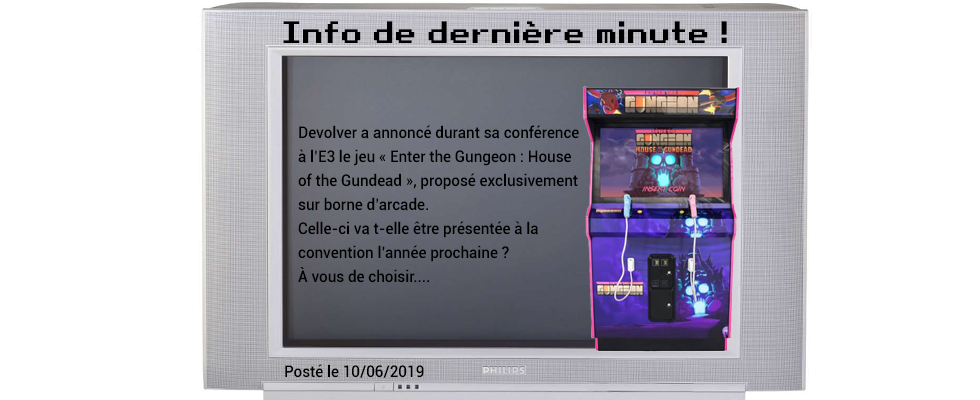
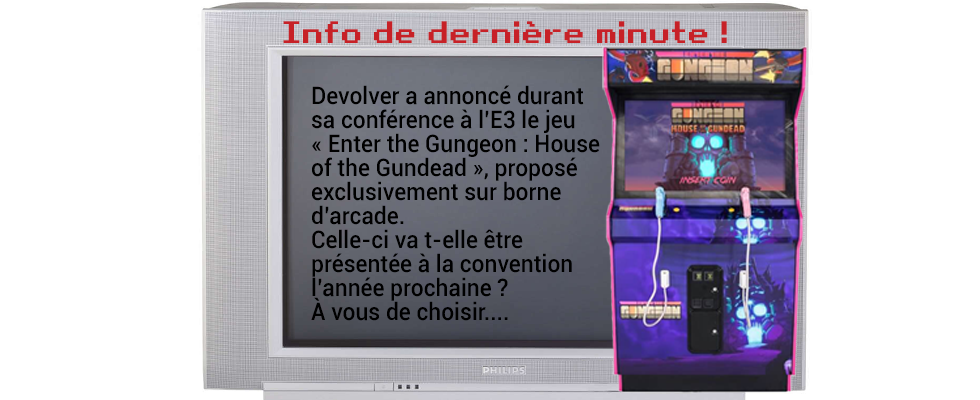
Modif images du carrousel de l'accueil.

Changed region(s): [[0.2755, 0.03, 0.8265, 0.99], [0.2755, 0.9, 0.4286, 0.96]]

diff --git a/css/style.css b/css/style.css
@@ -14,7 +14,35 @@ body{
     background-color:white;
 }
 
-/* Footer*/
+/* Début bannière */
+
+.banniere{
+    background-color:#3D3838;
+    margin-right:0px!important;
+    margin-right:0px!important;
+    padding-top:25px;
+}
+.imgbanniere{
+    max-width:100%; 
+    max-height:100%; 
+    margin-left:auto; 
+    margin-right:auto;
+    visibility:hidden;
+}
+
+#imagebanniere{
+    background-image:url('../images/banniere1.png');
+    margin-left:auto;
+    margin-right:auto;
+    background-size:cover;
+}
+#imagebanniere:hover{
+    background-image:url('../images/banniere.gif');
+}
+
+/* Fin bannière */
+
+/* Début footer*/
 .footer {
     background-color:#3D3838;
     color:white;
@@ -50,7 +78,9 @@ body{
 }
 
 
-/* Page programme */ 
+/* Fin footer */
+
+/* Début page programme */ 
 .jour{
     color: white;
 }
@@ -166,7 +196,6 @@ body{
     background-size: cover;
 }
 
-/*image page programe*/
 .nintendosalon{
     background-image: url(../images/consoles-salon-nintendo.jpg);
 }
@@ -247,37 +276,15 @@ body{
     background-image: url(../images/cloture.jpg);
 }
 
-/*fin image page programme*/
-
 .journee{
     margin-left:auto;
     margin-right:auto;
     font-family: "RetroGaming";
     font-size: 30px;
 }
-.banniere{
-    background-color:#3D3838;
-    margin-right:0px!important;
-    margin-right:0px!important;
-    padding-top:25px;
-}
-.imgbanniere{
-    max-width:100%; 
-    max-height:100%; 
-    margin-left:auto; 
-    margin-right:auto;
-    visibility:hidden;
-}
 
-#imagebanniere{
-    background-image:url('../images/banniere1.png');
-    margin-left:auto;
-    margin-right:auto;
-    background-size:cover;
-}
-#imagebanniere:hover{
-    background-image:url('../images/banniere.gif');
-}
+/* Fin page programme */
+
 
 
 

diff --git a/index.html b/index.html
@@ -76,7 +76,7 @@
             </ul>
          </div>
       </nav>
-      <div id="carouselFond"> 
+    
     <div class="container"> <!-- Création du corps de la page -->
        
         <!-- Création du carousel News -->
@@ -111,7 +111,7 @@
           </a>
         </div>
         </div>
-         </div>
+       
         <div id="fondDescrip">
         <div class="container descrip">
             <p class="font-weight-bold"> RetroWorld, c'est quoi ? </p>
